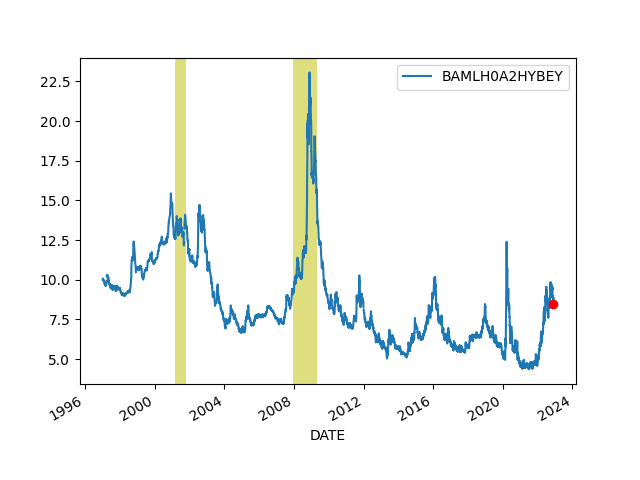
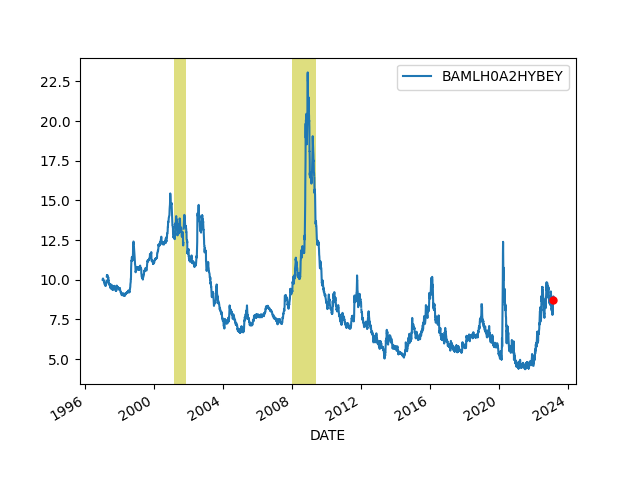
--

diff --git a/en/2021/01/stats.md b/en/2021/01/stats.md
@@ -462,21 +462,21 @@ Junk Bond Yields
 df = u.get_fred(1980,['BAMLH0A2HYBEY'])
 print (df.tail(6))
 df.plot()
-plt.plot(df.tail(1).index, df.tail(1),'ro')
 plt.axvspan('2001-03-03', '2001-10-27', color='y', alpha=0.5, lw=0)
 plt.axvspan('2007-12-22', '2009-05-09', color='y', alpha=0.5, lw=0)
+df.BAMLH0A2HYBEY.tail(1).plot(style='r.',markersize=10)
 plt.savefig('junkbond.png')
 ```
 
 ```text
             BAMLH0A2HYBEY
 DATE                     
-2022-11-24           8.69
-2022-11-25           8.71
-2022-11-28           8.82
-2022-11-29           8.87
-2022-11-30           8.72
-2022-12-01           8.50
+2023-02-16           8.58
+2023-02-17           8.69
+2023-02-20           8.69
+2023-02-21           8.95
+2023-02-22           8.86
+2023-02-23           8.69
 ```
 
 ![](junkbond.png)
@@ -516,19 +516,19 @@ df = u.get_yahoofin(2000,"^VIX")
 df.plot()
 plt.axvspan('22-12-2007', '09-05-2009', color='y', alpha=0.5, lw=0)
 print (df.tail(7))
-plt.plot(df.tail(1).index, df.tail(1),'ro')
+df.tail(1).plot(style='r.',markersize=10)
 plt.savefig('vix.png')
 ```
 
 ```text
 Date
-2023-01-30    19.940001
-2023-01-31    19.400000
-2023-02-01    17.870001
-2023-02-02    18.730000
-2023-02-03    18.330000
-2023-02-06    19.430000
-2023-02-07    18.760000
+2023-02-15    18.230000
+2023-02-16    20.170000
+2023-02-17    20.020000
+2023-02-21    22.870001
+2023-02-22    22.290001
+2023-02-23    21.139999
+2023-02-24    21.670000
 Name: Close, dtype: float64
 ```
 
